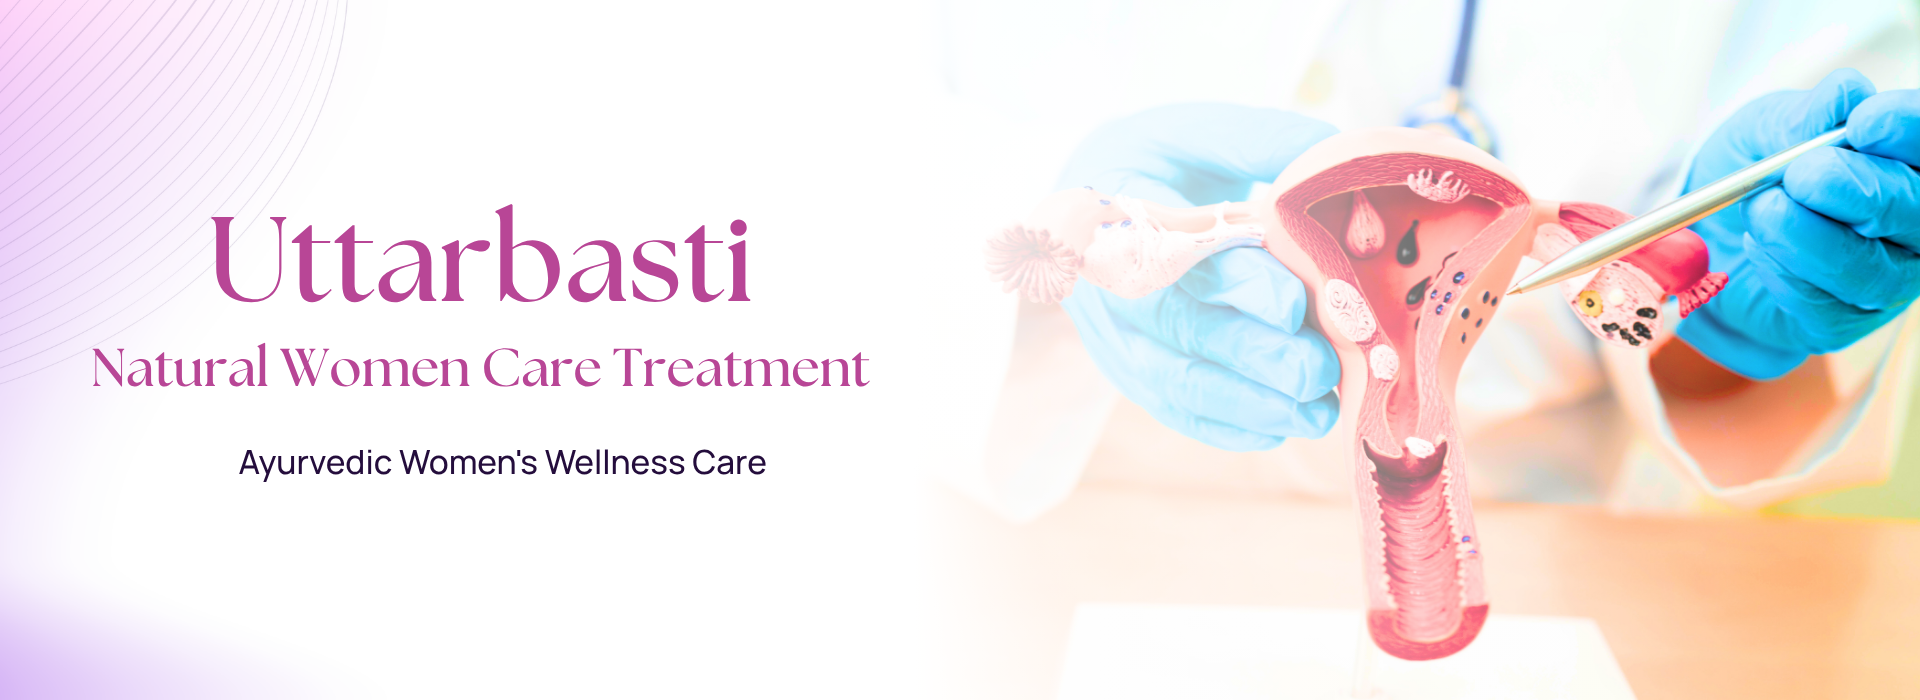
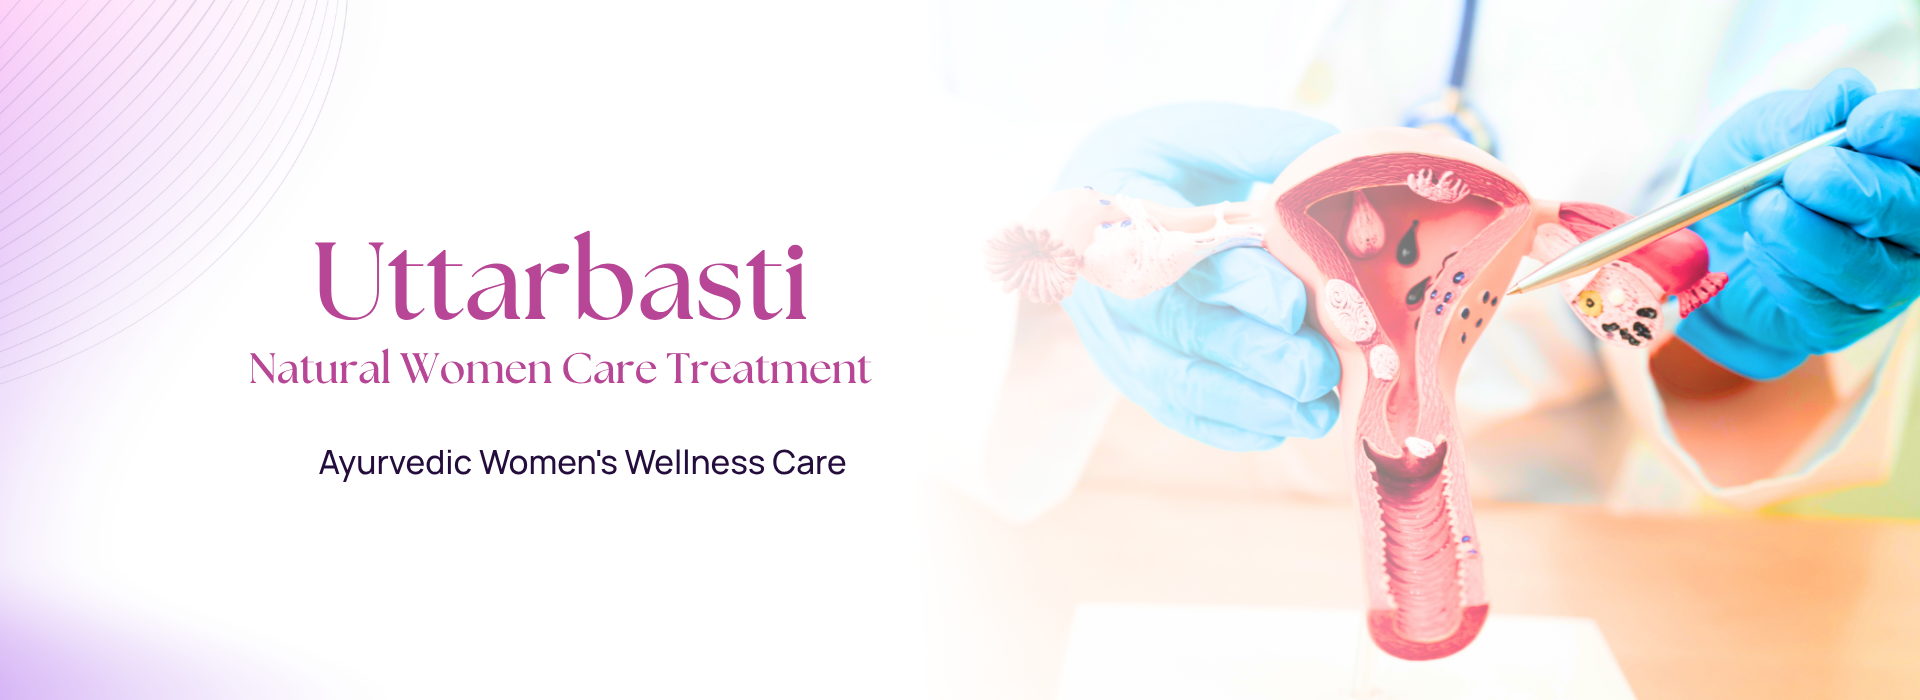
Updated

diff --git a/app/PopupForm.tsx b/app/PopupForm.tsx
@@ -6,15 +6,21 @@ import styles from './page.module.css'
 export default function PopupForm() {
   const [visible, setVisible] = useState(false)
   const [status, setStatus] = useState<'idle' | 'loading' | 'success' | 'error'>('idle')
-  const [form, setForm] = useState({ name: '', mobile: '', preferredTime: '' })
+  const [form, setForm] = useState({ name: '', mobile: '', email: '', preferredTime: '', message: '' })
 
   useEffect(() => {
     const timer = setTimeout(() => setVisible(true), 5000)
     return () => clearTimeout(timer)
   }, [])
 
-  const handleChange = (e: React.ChangeEvent<HTMLInputElement>) => {
-    setForm(prev => ({ ...prev, [e.target.name]: e.target.value }))
+  const handleChange = (e: React.ChangeEvent<HTMLInputElement | HTMLTextAreaElement>) => {
+    const { name, value } = e.target
+    if (name === 'mobile') {
+      const digitsOnly = value.replace(/\D/g, '').slice(0, 10)
+      setForm(prev => ({ ...prev, mobile: digitsOnly }))
+      return
+    }
+    setForm(prev => ({ ...prev, [name]: value }))
   }
 
   const handleSubmit = async () => {
@@ -22,16 +28,20 @@ export default function PopupForm() {
       alert('Please enter your name and mobile number.')
       return
     }
+    if (form.mobile.length !== 10) {
+      alert('Please enter a valid 10-digit mobile number.')
+      return
+    }
     setStatus('loading')
     try {
       const res = await fetch('/api/book-consultation', {
         method: 'POST',
         headers: { 'Content-Type': 'application/json' },
-        body: JSON.stringify({ ...form, page: 'uttar-basti-popup' }),
+        body: JSON.stringify(form),
       })
       if (!res.ok) throw new Error()
       setStatus('success')
-      setForm({ name: '', mobile: '', preferredTime: '' })
+      setForm({ name: '', mobile: '', email: '', preferredTime: '', message: '' })
     } catch {
       setStatus('error')
     }
@@ -58,6 +68,8 @@ export default function PopupForm() {
         maxWidth: '440px',
         position: 'relative',
         boxShadow: '0 8px 40px rgba(0,0,0,0.18)',
+        maxHeight: '90vh',
+        overflowY: 'auto',
       }}>
         {/* Close button */}
         <button
@@ -114,7 +126,7 @@ export default function PopupForm() {
               <input
                 type="text"
                 name="name"
-                placeholder="Your Name"
+                placeholder="Your Name *"
                 aria-label="Your Name"
                 value={form.name}
                 onChange={handleChange}
@@ -122,9 +134,19 @@ export default function PopupForm() {
               <input
                 type="tel"
                 name="mobile"
-                placeholder="Mobile Number"
+                placeholder="Mobile Number *"
                 aria-label="Mobile Number"
                 value={form.mobile}
+                onChange={handleChange}
+                inputMode="numeric"
+                maxLength={10}
+              />
+              <input
+                type="email"
+                name="email"
+                placeholder="Email Address"
+                aria-label="Email Address"
+                value={form.email}
                 onChange={handleChange}
               />
               <input
@@ -133,6 +155,14 @@ export default function PopupForm() {
                 placeholder="Preferred Time (e.g., Morning, Evening)"
                 aria-label="Preferred Time"
                 value={form.preferredTime}
+                onChange={handleChange}
+              />
+              <textarea
+                name="message"
+                placeholder="Your Message (optional)"
+                aria-label="Message"
+                rows={3}
+                value={form.message}
                 onChange={handleChange}
               />
               <button

diff --git a/sanity-studio/components/ConsultationTable.tsx b/sanity-studio/components/ConsultationTable.tsx
@@ -8,21 +8,22 @@ const client = createClient({
   dataset: 'production',
   apiVersion: '2024-01-01',
   useCdn: false,
-  token: process.env.NEXT_PUBLIC_SANITY_TOKEN,
 })
 
 type Booking = {
   _id: string
   name: string
   mobile: string
+  email: string
   preferredTime: string
-  page: string
+  message: string
   submittedAt: string
 }
 
 export function ConsultationTable() {
   const [bookings, setBookings] = useState<Booking[]>([])
   const [loading, setLoading] = useState(true)
+  const [deletingId, setDeletingId] = useState<string | null>(null)
 
   const fetchBookings = async () => {
     const data = await client.fetch(
@@ -34,8 +35,20 @@ export function ConsultationTable() {
 
   const handleDelete = async (id: string) => {
     if (!confirm('Delete this entry?')) return
-    await client.delete(id)
-    setBookings((prev) => prev.filter((b) => b._id !== id))
+    setDeletingId(id)
+    try {
+      const res = await fetch('/api/delete-consultation', {
+        method: 'POST',
+        headers: { 'Content-Type': 'application/json' },
+        body: JSON.stringify({ id }),
+      })
+      if (!res.ok) throw new Error()
+      setBookings((prev) => prev.filter((b) => b._id !== id))
+    } catch {
+      alert('Failed to delete. Please try again.')
+    } finally {
+      setDeletingId(null)
+    }
   }
 
   useEffect(() => {
@@ -57,8 +70,9 @@ export function ConsultationTable() {
             <tr style={{ background: '#f3f4f6', textAlign: 'left' }}>
               <th style={th}>Name</th>
               <th style={th}>Mobile</th>
+              <th style={th}>Email</th>
               <th style={th}>Preferred Time</th>
-              <th style={th}>Source Page</th>
+              <th style={th}>Message</th>
               <th style={th}>Submitted At</th>
               <th style={th}>Action</th>
             </tr>
@@ -68,23 +82,26 @@ export function ConsultationTable() {
               <tr key={b._id} style={{ borderBottom: '1px solid #e5e7eb' }}>
                 <td style={td}>{b.name}</td>
                 <td style={td}>{b.mobile}</td>
+                <td style={td}>{b.email || '—'}</td>
                 <td style={td}>{b.preferredTime || '—'}</td>
-                <td style={td}>{b.page || '—'}</td>
+                <td style={{ ...td, maxWidth: '220px', whiteSpace: 'pre-wrap' }}>{b.message || '—'}</td>
                 <td style={td}>{b.submittedAt ? new Date(b.submittedAt).toLocaleString() : '—'}</td>
                 <td style={td}>
                   <button
                     onClick={() => handleDelete(b._id)}
+                    disabled={deletingId === b._id}
                     style={{
                       background: '#ef4444',
                       color: '#fff',
                       border: 'none',
                       borderRadius: '4px',
                       padding: '0.4rem 0.85rem',
-                      cursor: 'pointer',
+                      cursor: deletingId === b._id ? 'not-allowed' : 'pointer',
                       fontSize: '0.85rem',
+                      opacity: deletingId === b._id ? 0.6 : 1,
                     }}
                   >
-                    Delete
+                    {deletingId === b._id ? 'Deleting…' : 'Delete'}
                   </button>
                 </td>
               </tr>

diff --git a/app/ConsultationForm.tsx b/app/ConsultationForm.tsx
@@ -18,6 +18,19 @@ export default function ConsultationForm() {
         type="tel"
         placeholder="Mobile Number"
         aria-label="Mobile Number"
+        inputMode="numeric"
+        maxLength={10}
+        onInput={(e) => {
+          const target = e.target as HTMLInputElement
+          target.value = target.value.replace(/\D/g, '').slice(0, 10)
+        }}
+      />
+      <input
+        suppressHydrationWarning
+        id="sb-email"
+        type="email"
+        placeholder="Email Address"
+        aria-label="Email Address"
       />
       <input
         suppressHydrationWarning
@@ -25,6 +38,13 @@ export default function ConsultationForm() {
         type="text"
         placeholder="Preferred Time (e.g., Morning, Evening)"
         aria-label="Preferred Time"
+      />
+      <textarea
+        suppressHydrationWarning
+        id="sb-message"
+        placeholder="Your Message (optional)"
+        aria-label="Message"
+        rows={3}
       />
       <button
         suppressHydrationWarning
@@ -34,11 +54,14 @@ export default function ConsultationForm() {
         onClick={() => {
           const name = (document.getElementById('sb-name') as HTMLInputElement)?.value
           const mobile = (document.getElementById('sb-mobile') as HTMLInputElement)?.value
+          const email = (document.getElementById('sb-email') as HTMLInputElement)?.value
           const preferredTime = (document.getElementById('sb-time') as HTMLInputElement)?.value
+          const message = (document.getElementById('sb-message') as HTMLTextAreaElement)?.value
           const btn = document.getElementById('sb-submit') as HTMLButtonElement
           const msg = document.getElementById('sb-msg')
 
           if (!name || !mobile) { alert('Please enter your name and mobile number.'); return }
+          if (mobile.length !== 10) { alert('Please enter a valid 10-digit mobile number.'); return }
 
           btn.disabled = true
           btn.textContent = 'Booking\u2026'
@@ -46,7 +69,7 @@ export default function ConsultationForm() {
           fetch('/api/book-consultation', {
             method: 'POST',
             headers: { 'Content-Type': 'application/json' },
-            body: JSON.stringify({ name, mobile, preferredTime, page: 'uttar-basti' }),
+            body: JSON.stringify({ name, mobile, email, preferredTime, message }),
           })
             .then(r => {
               if (!r.ok) throw new Error()
@@ -54,7 +77,9 @@ export default function ConsultationForm() {
               btn.disabled = false
               ;(document.getElementById('sb-name') as HTMLInputElement).value = ''
               ;(document.getElementById('sb-mobile') as HTMLInputElement).value = ''
+              ;(document.getElementById('sb-email') as HTMLInputElement).value = ''
               ;(document.getElementById('sb-time') as HTMLInputElement).value = ''
+              ;(document.getElementById('sb-message') as HTMLTextAreaElement).value = ''
               if (msg) { msg.style.color = 'green'; msg.textContent = '\u2705 Booked! We\u2019ll contact you shortly.' }
             })
             .catch(() => {

diff --git a/app/page.module.css b/app/page.module.css
@@ -164,8 +164,8 @@
 }
 .heroCta {
   position: absolute;
-  bottom: 12%;
-  left: 16%;
+  bottom: 17%;
+  left: 22%;
   background: var(--pink-hot);
   color: var(--white);
   font-weight: 600;
@@ -776,10 +776,37 @@
   line-height: 1.75;
   margin-bottom: 1.5rem;
 }
+/* Lead form (used in bottom lead section) */
 .leadForm {
   display: flex;
   flex-direction: column;
   gap: 0;
+}
+.leadForm input,
+.leadForm textarea {
+  width: 100%;
+  border: 1.5px solid var(--border);
+  border-radius: var(--radius-sm);
+  padding: 0.7rem 1rem;
+  font-family: var(--font-body);
+  font-size: 0.95rem;
+  color: var(--text-dark);
+  background: var(--white);
+  margin-bottom: 0.85rem;
+  outline: none;
+  transition: border-color 0.15s, box-shadow 0.15s;
+  display: block;
+  box-sizing: border-box;
+}
+.leadForm textarea {
+  resize: vertical;
+  min-height: 90px;
+  font-family: var(--font-body);
+}
+.leadForm input:focus,
+.leadForm textarea:focus {
+  border-color: var(--pink-hot);
+  box-shadow: 0 0 0 3px rgba(212, 0, 122, 0.1);
 }
 
 @media (max-width: 768px) {

diff --git a/app/api/book-consultation/route.ts b/app/api/book-consultation/route.ts
@@ -3,18 +3,22 @@ import { sanityClient } from '@/lib/sanityClient'
 
 export async function POST(req: NextRequest) {
   try {
-    const { name, mobile, preferredTime, page } = await req.json()
+    const { name, mobile, email, preferredTime, message } = await req.json()
 
     if (!name || !mobile) {
       return NextResponse.json({ error: 'Name and mobile required.' }, { status: 400 })
+    }
+    if (!/^\d{10}$/.test(mobile)) {
+      return NextResponse.json({ error: 'Invalid mobile number.' }, { status: 400 })
     }
 
     await sanityClient.create({
       _type: 'consultationBooking',
       name,
       mobile,
+      email: email || '',
       preferredTime: preferredTime || '',
-      page: page || 'uttar-basti',
+      message: message || '',
       submittedAt: new Date().toISOString(),
     })
 

diff --git a/sanity-studio/schemas/consultationBooking.ts b/sanity-studio/schemas/consultationBooking.ts
@@ -5,8 +5,9 @@ export const consultationBooking = {
   fields: [
     { name: 'name', title: 'Patient Name', type: 'string' },
     { name: 'mobile', title: 'Mobile Number', type: 'string' },
+    { name: 'email', title: 'Email Address', type: 'string' },
     { name: 'preferredTime', title: 'Preferred Time', type: 'string' },
-    { name: 'page', title: 'Source Page', type: 'string' },
+    { name: 'message', title: 'Message', type: 'text' },
     { name: 'submittedAt', title: 'Submitted At', type: 'datetime' },
   ],
   preview: {

diff --git a/app/api/delete-consultation/route.ts b/app/api/delete-consultation/route.ts
@@ -1,0 +1,19 @@
+import { NextRequest, NextResponse } from 'next/server'
+import { sanityClient } from '@/lib/sanityClient'
+
+export async function POST(req: NextRequest) {
+  try {
+    const { id } = await req.json()
+
+    if (!id) {
+      return NextResponse.json({ error: 'ID required.' }, { status: 400 })
+    }
+
+    await sanityClient.delete(id)
+
+    return NextResponse.json({ success: true })
+  } catch (err) {
+    console.error(err)
+    return NextResponse.json({ error: 'Delete failed.' }, { status: 500 })
+  }
+}

diff --git a/next.config.ts b/next.config.ts
@@ -1,5 +1,7 @@
-/** @type {import('next').NextConfig} */
-const nextConfig = {
+import type { NextConfig } from "next";
+import path from "path";
+
+const nextConfig: NextConfig = {
   images: {
     remotePatterns: [
       {
@@ -8,6 +10,9 @@ const nextConfig = {
       },
     ],
   },
+  turbopack: {
+    root: path.join(__dirname),
+  },
 };
 
-module.exports = nextConfig;
+export default nextConfig;
